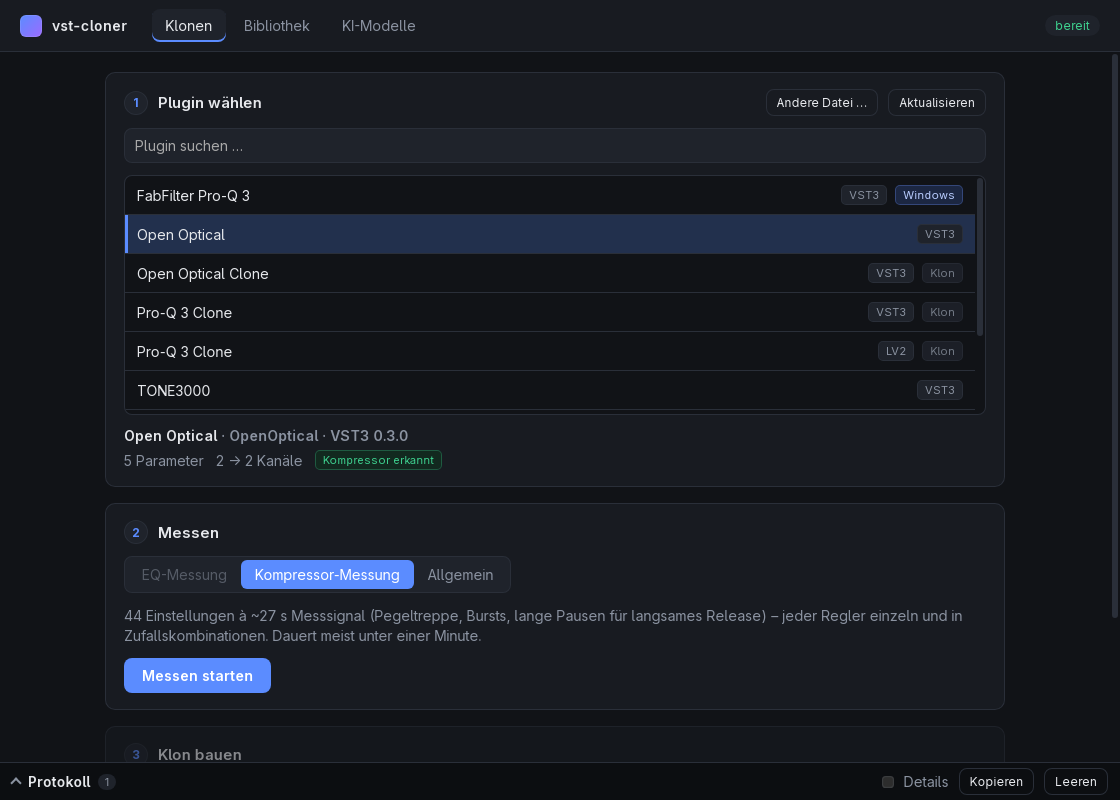
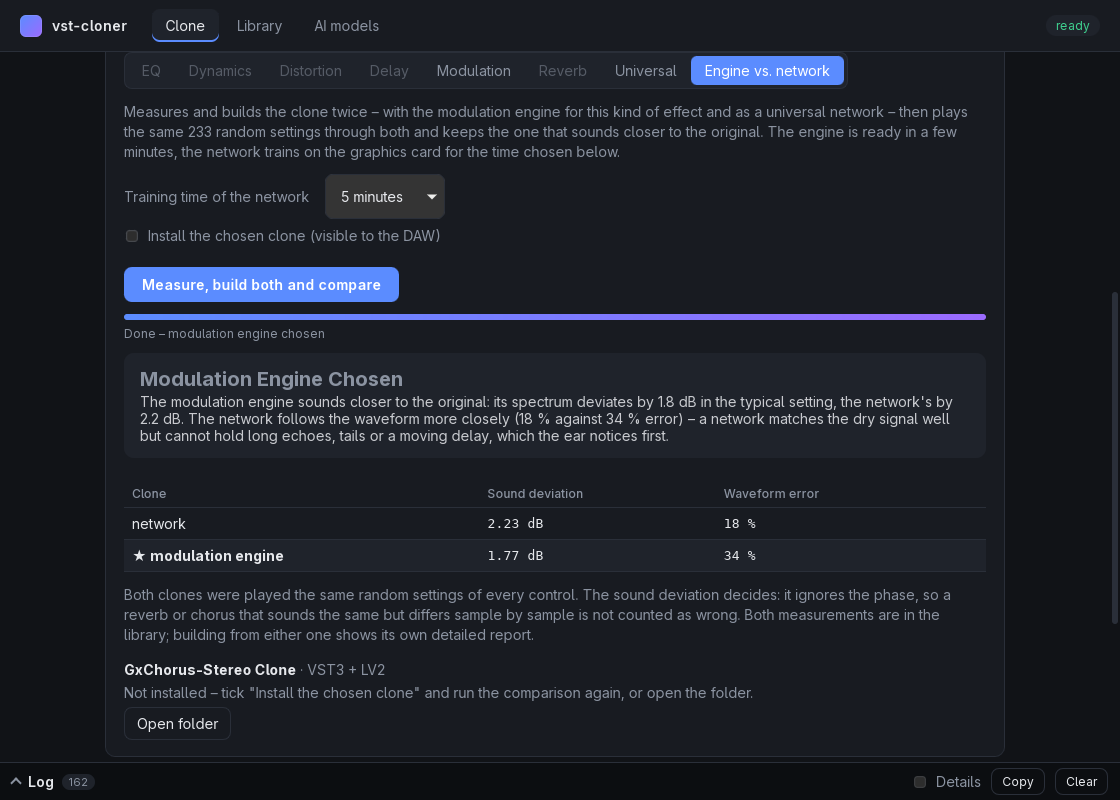
README: new header image (engine vs. network), status, universal clone results

diff --git a/README.md b/README.md
@@ -1,6 +1,6 @@
 # vst-cloner
 
-![vst-cloner: choose a plugin, detected as a compressor, compressor measurement](docs/images/app.png)
+![vst-cloner: a chorus cloned with its modulation engine and as a network, both compared on the same settings](docs/images/app.png)
 
 Use the effect plugins you bought on Linux: plugins are measured as a black box,
 saved as an open profile (`.vcprofile`) and rebuilt from it as a free clone (LV2/VST3/CLAP).
@@ -8,12 +8,15 @@ No decompiled code, no extracted samples – only measured sound behaviour.
 
 Overall plan and milestones: [PLAN.md](PLAN.md) · Profile format: [docs/profile-format.md](docs/profile-format.md)
 
-**Status: milestone 6 in progress** – desktop app, capture host, profile format and LLM integration work.
+**Status: milestones 6 and 7 in progress** – desktop app, capture host, profile format and LLM integration work.
 Clones (VST3/LV2) exist for **parametric EQs**, **compressors/limiters**, **gates/expanders** and
 **distortions** (overdrive/distortion), each with a rebuilt editor of the original.
-**Delays** and **reverbs** can be cloned in a first version (no rebuilt editor yet).
+**Delays**, **reverbs** and **chorus/flanger/vibrato** (a delay moved by an LFO) can be cloned in a first version
+(no rebuilt editor yet).
 **Any other plugin** becomes a **universal clone**: a neural network, conditioned on all of its controls, is trained
-on the GPU from the measurements (see below). Modulation effects, long reverb tails and long delays are its weak spots.
+on the GPU from the measurements (see below). Long reverb tails, long delays and modulated delays are its weak spots –
+for a plugin with a class of its own, **Engine vs. network** builds both clones, compares them on the same settings
+and keeps the one that sounds closer (shown above).
 Tested on Linux with native VST3/LV2 plugins and Windows plugins via yabridge.
 
 | Clone | Original | Deviation | Editor |
@@ -32,6 +35,18 @@ Batch runs over all installed plugins of a class (without editor, as of 16 Nov; 
 | Reverbs | 19 | 1.48–6.97 dB: 12 good or better, 7 usable (e.g. ZamVerb 1.48 · Dragonfly Hall 1.67 · Tal-Reverb-III 1.68 · FdnReverb 4.08) |
 | Distortions | 73 | 0.06–18.4 dB: 46 good or better, 14 usable, 13 inaccurate (e.g. GxMicroAmp 0.06 · Wolf Shaper 0.44 · GxBoss DS1 1.15 · GxTubeScreamer 1.93) |
 | EQs | 5 | 0.04–0.83 dB: IEM MultiEQ 0.04 · x42-eq 0.50 · ZamGEQ31 0.66 · GxBarkGraphicEQ 0.62 · GxGraphicEQ 0.83 |
+
+Universal clone, 16 plugins of different classes (clone vs. original: error-to-signal ratio, mean over all
+settings; 6 minutes of training, those marked * 20 minutes):
+
+| Result | Plugins |
+|---|---|
+| very good (< 3 %) | ZamAutoSat 0.00 % · GxTubeScreamer 0.67 % · GxTremolo 1.0 % · ZaMaximX2 1.8 % |
+| usable (3–15 %) | cheapdist 8.1 % · GxBoss DS1 8.2 % · GxTiltTone 9.7 % · ZamGEQ31* 14 % · GxPhaser 14.5 % |
+| inaccurate | ZynDistortion* 16 % and ZamGate* 17 % (typical setting 2.2 % and 4.2 % – a few hard settings are far off) · GxChorus 19 % · GxCompressor* 28 % · SwankyAmp* 29 % · ZamDelay 40 % · MVerb 41 % |
+
+For chorus, reverb and delay the class engines sound closer: spectral deviation GxChorus 1.8 against 2.2 dB,
+MVerb 3.3 against 9.7 dB, ZamDelay 6.6 against 13.2 dB (engine against network).
 
 For reverbs and most delays, control combinations that were not measured on their own still deviate much more
 (delays: 0.8–10 dB for seven plugins, otherwise 15–26 dB; reverbs: 2–16 dB).
